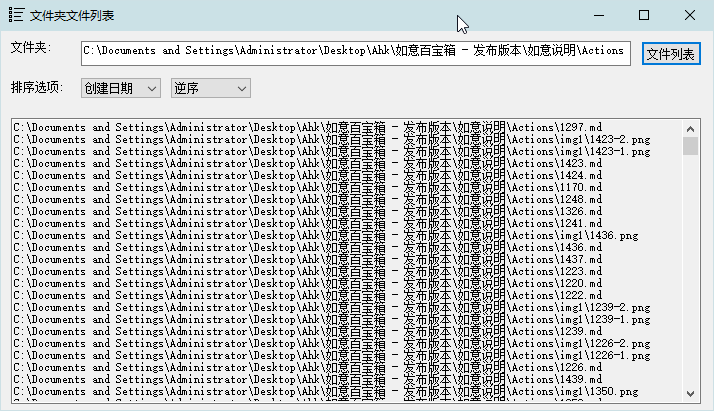
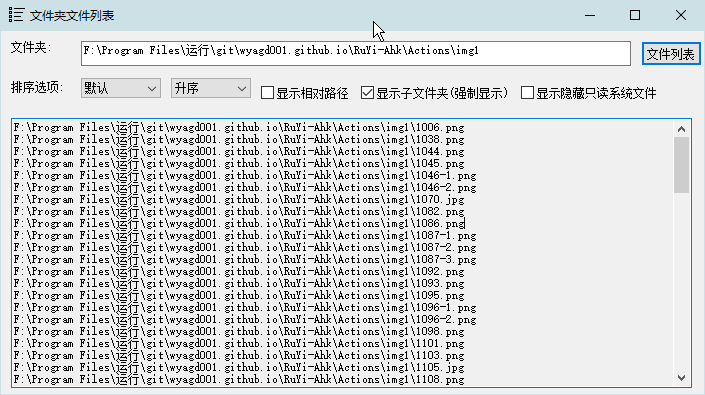
如意 2.5.0.1 修改动作的更新历史

diff --git a/RuYi-Ahk/Actions/1229.md b/RuYi-Ahk/Actions/1229.md
@@ -21,5 +21,10 @@ description: 如意百宝箱-Ahk 动作介绍
 
 **代码或详细解释**:  
 查找文件夹中的重复文件, 可以查找多个文件夹下的文件, 以 | 或 ; 分隔, 如 "C:\123|D:\test"  
-代码逻辑遍历文件, 遇到相同大小的文件则计算文件 MD5 值, 若 MD5 值相等则判断文件重复, 文件数目超过 1 万或者文件夹中有文件的大小 > 1G, 则需要的时间会很长.   
+代码逻辑遍历文件, 遇到相同大小的文件则计算文件 MD5 值, 若 MD5 值相等则判断文件重复, 文件数目超过 1 万或者文件夹中有文件的大小 > 1G, 则需要的时间会很长.  
 
+**更新历史**:  
+1. 1.8 中首次添加该动作  
+2. 1.9 查找重复文件能指定扩展名查找  
+3. 2.4 支持多个文件夹, 以 | 或 ; 分隔  
+4. 2.5 文件列表默认按 Md5 值排序, 新增 2 列以便能清晰显示重复文件分组  

diff --git a/RuYi-Ahk/Actions/1297.md b/RuYi-Ahk/Actions/1297.md
@@ -21,3 +21,7 @@ description: 如意百宝箱-Ahk 动作介绍
 
 **代码或详细解释**:  
 选中文件夹, 执行动作, 弹出一个能显示选中文件夹中所有文件列表的窗口. 文件列表能按条件排序.  
+
+**更新历史**:  
+1. 1.9 中首次添加该动作
+2. 2.5 中新增了更多的选项(显示相对路径, 显示子文件夹, 不显示隐藏只读系统文件), 可显示的文件最大数量由 500 改为 3000.  
